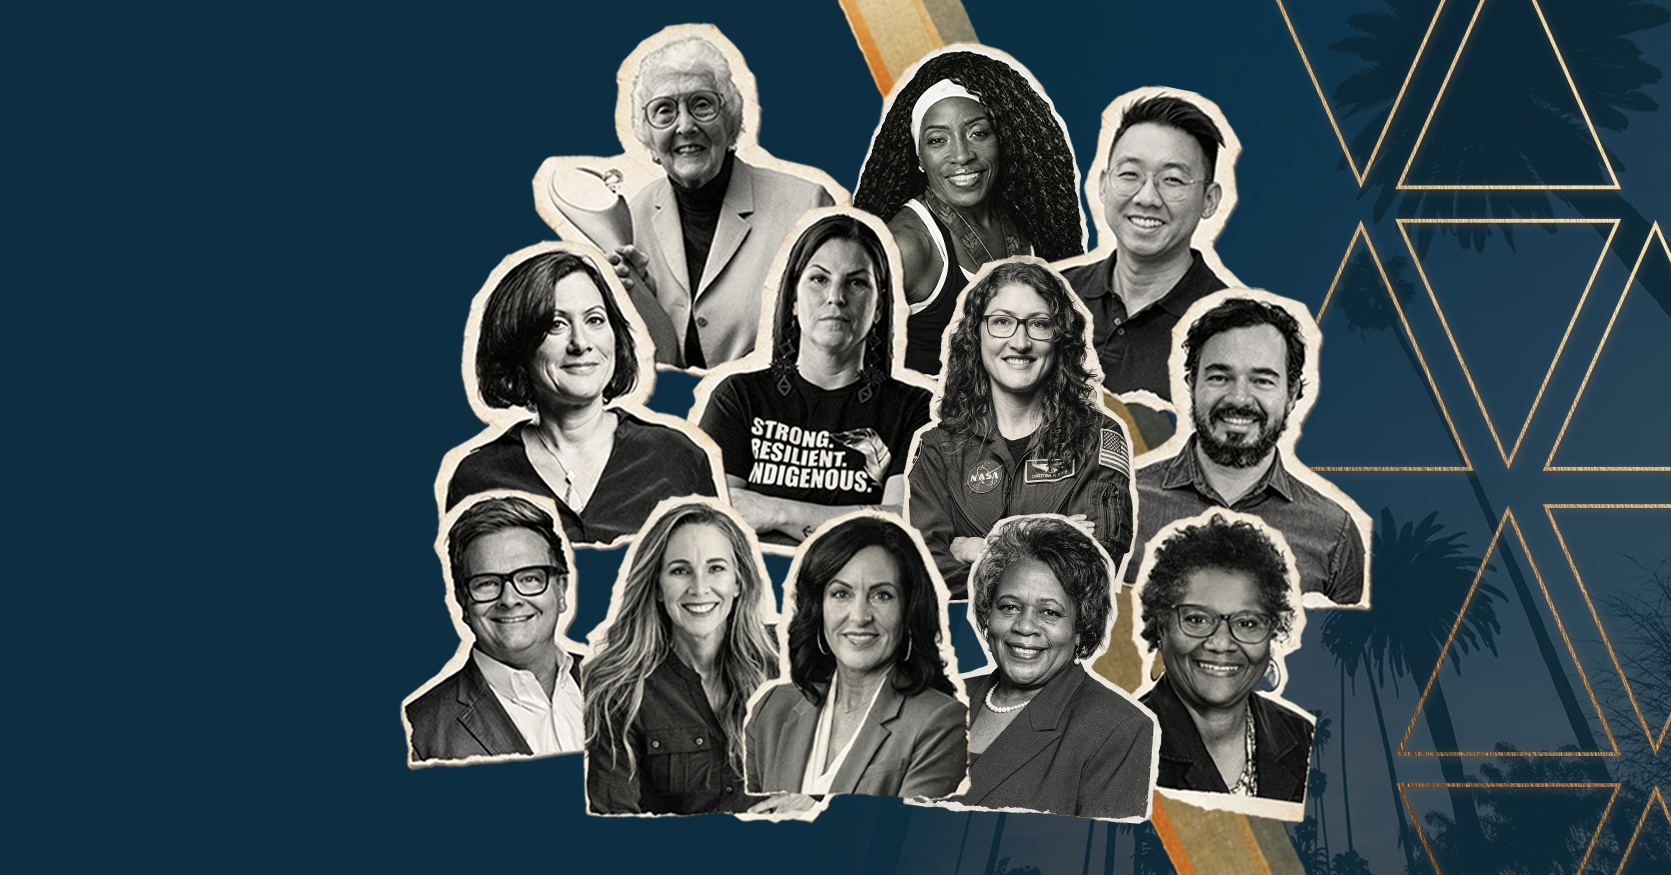
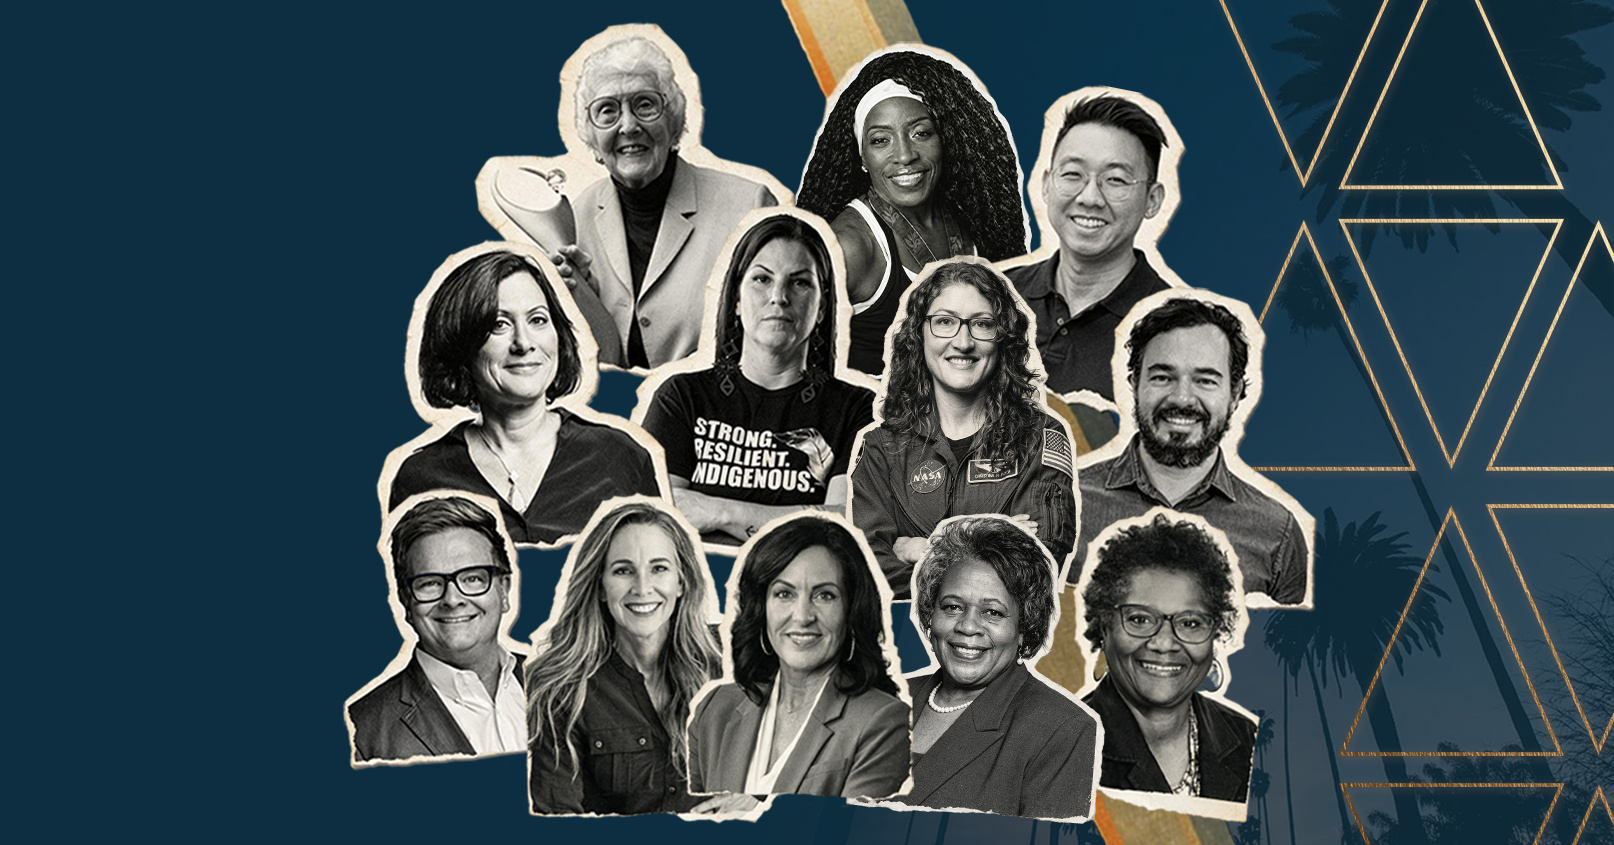
Miniatura da raiz: colagem centralizada (1614x845)

diff --git a/index.html b/index.html
@@ -45,16 +45,16 @@
     <meta property="og:url" content="https://conference.athenainternational.org/" />
     <meta property="og:title" content="ATHENA International Conference &amp; Awards Celebration 2027" />
     <meta property="og:description" content="Three days of leadership, connection, and recognition. January 28-30, 2027, Hilton Los Angeles/Universal City. Secure your seat." />
-    <meta property="og:image" content="https://conference.athenainternational.org/assets/conference-2027/og/athena-2027-share.jpg?v=2" />
-    <meta property="og:image:secure_url" content="https://conference.athenainternational.org/assets/conference-2027/og/athena-2027-share.jpg?v=2" />
+    <meta property="og:image" content="https://conference.athenainternational.org/assets/conference-2027/og/athena-2027-share.jpg?v=3" />
+    <meta property="og:image:secure_url" content="https://conference.athenainternational.org/assets/conference-2027/og/athena-2027-share.jpg?v=3" />
     <meta property="og:image:type" content="image/jpeg" />
-    <meta property="og:image:width" content="1671" />
-    <meta property="og:image:height" content="875" />
+    <meta property="og:image:width" content="1614" />
+    <meta property="og:image:height" content="845" />
     <meta property="og:image:alt" content="Collage of ATHENA 2027 Conference speakers in black and white over a Los Angeles sunset with palm trees and the bronze ATHENA pattern" />
     <meta name="twitter:card" content="summary_large_image" />
     <meta name="twitter:title" content="ATHENA International Conference &amp; Awards Celebration 2027" />
     <meta name="twitter:description" content="Three days of leadership, connection, and recognition. January 28-30, 2027, Hilton Los Angeles/Universal City. Secure your seat." />
-    <meta name="twitter:image" content="https://conference.athenainternational.org/assets/conference-2027/og/athena-2027-share.jpg?v=2" />
+    <meta name="twitter:image" content="https://conference.athenainternational.org/assets/conference-2027/og/athena-2027-share.jpg?v=3" />
     <meta name="twitter:image:alt" content="Collage of ATHENA 2027 Conference speakers in black and white over a Los Angeles sunset with palm trees and the bronze ATHENA pattern" />
     <link rel="preload" as="image" href="/assets/conference-2027/index-B-assets/hero-people-720-pro.webp" type="image/webp" media="(max-width: 760px)" fetchpriority="high"><link rel="preload" as="image" href="/assets/conference-2027/index-B-assets/hero-people-960-pro.webp" type="image/webp" media="(min-width: 761px)" fetchpriority="high"><link
       href="https://fonts.googleapis.com/css2?family=Poppins:wght@400;600;700;800&family=Source+Serif+4:ital,wght@0,400;0,600;0,700;1,400&display=swap" rel="preload" as="style" onload="this.onload=null;this.rel='stylesheet'"
@@ -4085,8 +4085,8 @@ Thank you for considering it.
               <p>Buy one ticket and your guest comes free. One guest per ATHENA Award Recipient.</p>
             </div>
             <div class="tk-row-prices">
-              <span><small>GA for two</small>$545</span>
-              <span><small>VIP for two</small>$795</span>
+              <span data-ph="{&quot;t2&quot;: &quot;&lt;small&gt;GA for two&lt;/small&gt;$620&quot;, &quot;reg&quot;: &quot;&lt;small&gt;GA for two&lt;/small&gt;$695&quot;}"><small>GA for two</small>$545</span>
+              <span data-ph="{&quot;t2&quot;: &quot;&lt;small&gt;VIP for two&lt;/small&gt;$895&quot;, &quot;reg&quot;: &quot;&lt;small&gt;VIP for two&lt;/small&gt;$995&quot;}"><small>VIP for two</small>$795</span>
             </div>
             <span class="tk-go">Claim your two seats</span>
           </a>
@@ -4168,8 +4168,8 @@ Thank you for considering it.
           <h2 class="bogo-title"><span>Bring someone</span> <span>through <mark>this one</mark></span></h2>
           <p class="bogo-sub">Buy one ticket to ATHENA 2027 and your guest comes free. Bring the rising leader on your team, someone you mentor, or a friend at a crossroads.</p>
           <div class="bogo-prices">
-            <div><small>General Admission</small><b>$545</b><span>for two seats</span></div>
-            <div><small>VIP Experience</small><b>$795</b><span>for two seats</span></div>
+            <div data-ph="{&quot;t2&quot;: &quot;&lt;small&gt;General Admission&lt;/small&gt;&lt;b&gt;$620&lt;/b&gt;&lt;span&gt;for two seats&lt;/span&gt;&quot;, &quot;reg&quot;: &quot;&lt;small&gt;General Admission&lt;/small&gt;&lt;b&gt;$695&lt;/b&gt;&lt;span&gt;for two seats&lt;/span&gt;&quot;}"><small>General Admission</small><b>$545</b><span>for two seats</span></div>
+            <div data-ph="{&quot;t2&quot;: &quot;&lt;small&gt;VIP Experience&lt;/small&gt;&lt;b&gt;$895&lt;/b&gt;&lt;span&gt;for two seats&lt;/span&gt;&quot;, &quot;reg&quot;: &quot;&lt;small&gt;VIP Experience&lt;/small&gt;&lt;b&gt;$995&lt;/b&gt;&lt;span&gt;for two seats&lt;/span&gt;&quot;}"><small>VIP Experience</small><b>$795</b><span>for two seats</span></div>
           </div>
           <a href="/bogo/" class="btn btn-primary">Claim your two seats</a>
           <p class="bogo-fine">One guest per ATHENA Award Recipient. Awards are verified against ATHENA's list of presenting communities and organizations.</p>
@@ -4195,10 +4195,10 @@ Thank you for considering it.
           </div>
           <div class="faq-item">
             <button class="faq-q">
-              What if I can't attend after I register?<span class="plus">+</span>
+              When and where is it?<span class="plus">+</span>
             </button>
             <div class="faq-a">
-              <p>All ticket sales are final, but substitutions may be permitted. <a href="https://www.athenainternational.org/form-conference">Contact the ATHENA team</a> with the new attendee's name.</p>
+              <p>January 28-30, 2027, at the Hilton Los Angeles/Universal City.</p>
             </div>
           </div>
           <div class="faq-item">
@@ -4211,10 +4211,35 @@ Thank you for considering it.
           </div>
           <div class="faq-item">
             <button class="faq-q">
+              What's the difference between General Admission and VIP Experience?<span class="plus">+</span>
+            </button>
+            <div class="faq-a">
+              <p>VIP Experience includes everything in General Admission, plus priority seating, exclusive access, and elevated experiences. VIP is limited to 50 seats.</p>
+            </div>
+          </div>
+          <div class="faq-item">
+            <button class="faq-q">
               Can I bring my team?<span class="plus">+</span>
             </button>
             <div class="faq-a">
               <p>Yes. Groups of 5 to 9 save 10%, 10 to 19 save 15%, and 20 or more save 20% on General Admission and VIP. <a href="/groups/">Price your group and request your code</a>, or <a href="https://www.athenainternational.org/form-conference">contact us</a> for a custom corporate package.</p>
+            </div>
+          </div>
+          <div class="faq-item" id="faq-student">
+            <button class="faq-q">
+              Is there student pricing?<span class="plus">+</span>
+            </button>
+            <div class="faq-a">
+              <p>Yes, while capacity lasts. High school students pay $145 and college students pay $295. Register on the <a href="https://www.zeffy.com/en-US/ticketing/athena-2027-general-admission-student-pass"><strong>Student Pass page</strong></a> and check the box certifying that you are a student. Then bring a valid student ID or proof of enrollment to check-in at the conference. ATHENA International will verify eligibility, and registrations found ineligible may be canceled unless the full registration fee is paid.</p>
+            </div>
+          </div>
+          <div class="faq-item" id="faq-scholarship">
+            <button class="faq-q">
+              Do you offer scholarships?<span class="plus">+</span>
+            </button>
+            <div class="faq-a">
+              <p>Yes, for a limited number of high school and college students. <a href="https://www.athenainternational.org/form-conference"><strong>Apply through our contact form</strong></a> by November 20, 2026, and tell us why you are applying and how the conference will help your current or future career. Recipients are notified by December 11, 2026.</p>
+              <p>The scholarship applies to conference registration only. It does not cover travel or hotel. Recipients agree to share a testimonial about the impact of the conference and post it on their social media.</p>
             </div>
           </div>
           <div class="faq-item">
@@ -4227,47 +4252,6 @@ Thank you for considering it.
           </div>
           <div class="faq-item faq-extra">
             <button class="faq-q">
-              When and where is it?<span class="plus">+</span>
-            </button>
-            <div class="faq-a">
-              <p>January 28-30, 2027, at the Hilton Los Angeles/Universal City.</p>
-            </div>
-          </div>
-          <div class="faq-item faq-extra">
-            <button class="faq-q">
-              What's the difference between General Admission and VIP Experience?<span class="plus">+</span>
-            </button>
-            <div class="faq-a">
-              <p>VIP Experience includes everything in General Admission, plus priority seating, exclusive access, and elevated experiences. VIP is limited to 50 seats.</p>
-            </div>
-          </div>
-          <div class="faq-item faq-extra">
-            <button class="faq-q">
-              How do I choose my micro-labs?<span class="plus">+</span>
-            </button>
-            <div class="faq-a">
-              <p>Labs run in 75- and 90-minute rounds across Personal, Team, AI, and Youth Leadership and Entrepreneurship. After you register, save your picks in the ATHENA Conference Hub. <a href="#labs">See the micro-labs</a>.</p>
-            </div>
-          </div>
-          <div class="faq-item faq-extra" id="faq-student">
-            <button class="faq-q">
-              Is there student pricing?<span class="plus">+</span>
-            </button>
-            <div class="faq-a">
-              <p>Yes, while capacity lasts. High school students pay $145 and college students pay $295. Register on the <a href="https://www.zeffy.com/en-US/ticketing/athena-2027-general-admission-student-pass"><strong>Student Pass page</strong></a> and check the box certifying that you are a student. Then bring a valid student ID or proof of enrollment to check-in at the conference. ATHENA International will verify eligibility, and registrations found ineligible may be canceled unless the full registration fee is paid.</p>
-            </div>
-          </div>
-          <div class="faq-item faq-extra" id="faq-scholarship">
-            <button class="faq-q">
-              Do you offer scholarships?<span class="plus">+</span>
-            </button>
-            <div class="faq-a">
-              <p>Yes, for a limited number of high school and college students. <a href="https://www.athenainternational.org/form-conference"><strong>Apply through our contact form</strong></a> by November 20, 2026, and tell us why you are applying and how the conference will help your current or future career. Recipients are notified by December 11, 2026.</p>
-              <p>The scholarship applies to conference registration only. It does not cover travel or hotel. Recipients agree to share a testimonial about the impact of the conference and post it on their social media.</p>
-            </div>
-          </div>
-          <div class="faq-item faq-extra">
-            <button class="faq-q">
               How do I get there?<span class="plus">+</span>
             </button>
             <div class="faq-a">
@@ -4276,10 +4260,10 @@ Thank you for considering it.
           </div>
           <div class="faq-item faq-extra">
             <button class="faq-q">
-              Can my organization sponsor or partner with ATHENA 2027?<span class="plus">+</span>
+              How do I choose my micro-labs?<span class="plus">+</span>
             </button>
             <div class="faq-a">
-              <p>Yes. Sponsorship opportunities are available for organizations that want to align with ATHENA's leadership community. For sponsor inquiries, <a href="https://www.athenainternational.org/form-conference">contact the ATHENA team</a>.</p>
+              <p>Labs run in 75- and 90-minute rounds across Personal, Team, AI, and Youth Leadership and Entrepreneurship. After you register, save your picks in the ATHENA Conference Hub. <a href="#labs">See the micro-labs</a>.</p>
             </div>
           </div>
           <div class="faq-item faq-extra">
@@ -4308,10 +4292,26 @@ Thank you for considering it.
           </div>
           <div class="faq-item faq-extra">
             <button class="faq-q">
+              What if I can't attend after I register?<span class="plus">+</span>
+            </button>
+            <div class="faq-a">
+              <p>All ticket sales are final, but substitutions may be permitted. <a href="https://www.athenainternational.org/form-conference">Contact the ATHENA team</a> with the new attendee's name.</p>
+            </div>
+          </div>
+          <div class="faq-item faq-extra">
+            <button class="faq-q">
               What's your refund policy?<span class="plus">+</span>
             </button>
             <div class="faq-a">
               <p>All ticket sales are final, but substitutions may be permitted.<span data-ph="{&quot;t2&quot;: &quot; Tier 2 pricing ends December 31 at 6 PM PST.&quot;, &quot;reg&quot;: null}"> Early Bird pricing is limited by time and quantity.</span></p>
+            </div>
+          </div>
+          <div class="faq-item faq-extra">
+            <button class="faq-q">
+              Can my organization sponsor or partner with ATHENA 2027?<span class="plus">+</span>
+            </button>
+            <div class="faq-a">
+              <p>Yes. Sponsorship opportunities are available for organizations that want to align with ATHENA's leadership community. For sponsor inquiries, <a href="https://www.athenainternational.org/form-conference">contact the ATHENA team</a>.</p>
             </div>
           </div>
         </div>
@@ -5068,9 +5068,10 @@ new IntersectionObserver(function(e){bar.classList.toggle('is-on',!e[0].isInters
         function openFaq(id) {
           var item = document.getElementById(id); if (!item) return;
           var list = item.closest(".faq-list"), more = document.getElementById("faqMore");
-          if (list && list.classList.contains("faq-collapsed") && more) more.click();
+          if (item.classList.contains("faq-extra") && list && list.classList.contains("faq-collapsed") && more) more.click();
           if (!item.classList.contains("open")) item.querySelector(".faq-q").click();
           item.scrollIntoView({ behavior: "smooth", block: "start" });
+          setTimeout(function () { item.scrollIntoView({ block: "start" }); }, 900);
         }
         document.querySelectorAll(".js-faq-open").forEach(function (a) {
           a.addEventListener("click", function (e) { e.preventDefault(); openFaq(a.getAttribute("href").slice(1)); });
